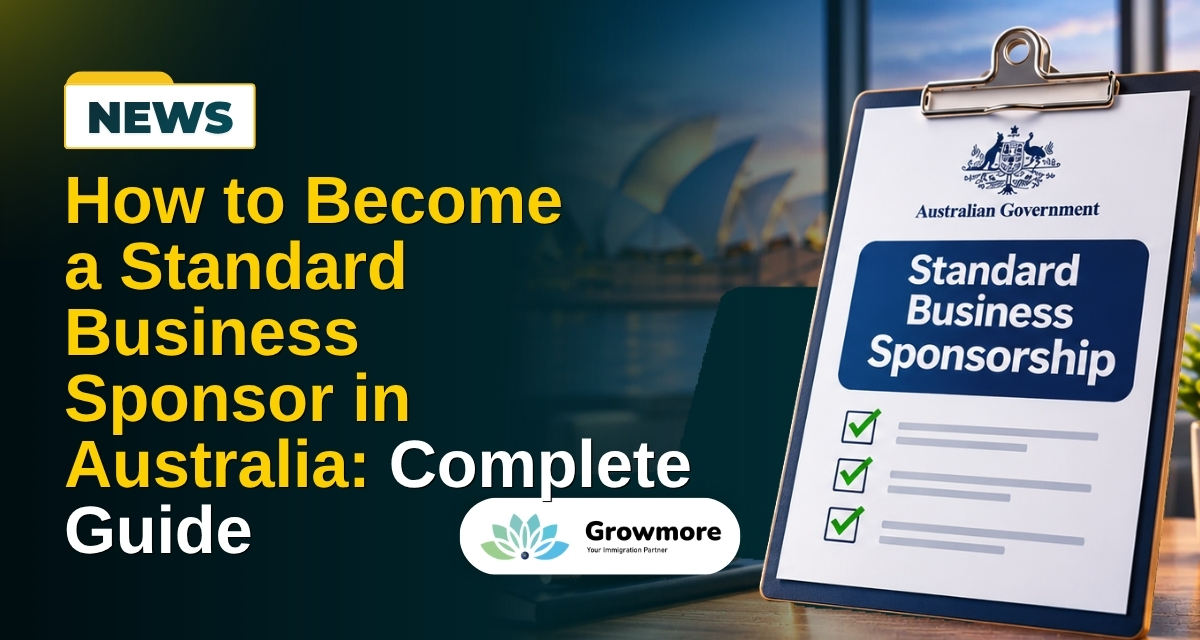
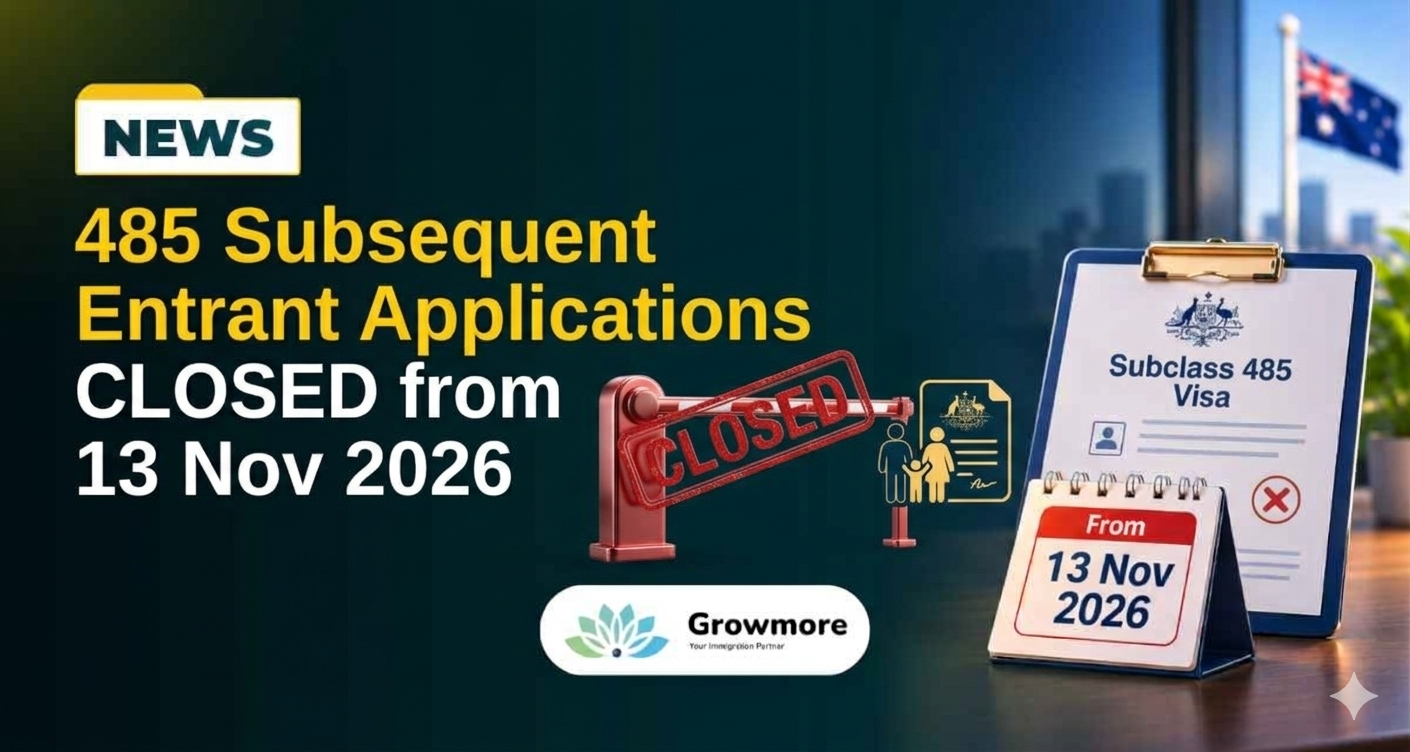
code updated

diff --git a/src/data/newsData.js b/src/data/newsData.js
@@ -1,5 +1,15 @@
 export const news = [
-  
+  {
+    id: 165,
+    slug: "485-subsequent-entrant-applications-closed-from-13-nov",
+    title: "485 Subsequent Entrant Applications CLOSED from 13 Nov",
+    metaTitle: "485 Subsequent Entrant Visa Closed from 13 November 2026",
+    metaDescription: "Australia closes separate 485 subsequent entrant applications from 13 November 2026. Learn about the six exceptions and new family visa rules.",
+    date: "Nov 12, 2026",
+    image: `/assets/ng126.jpg`,
+    category: "Other",
+    subcategory:"Subclass 485",
+  },
   {
     id: 164,
     slug: "bvb-travel-periods-to-be-shorter-for-employer-sponsored-visa-applicants-from-30-nov-2026",

diff --git a/public/content/news/485-subsequent-entrant-applications-closed-from-13-nov.md b/public/content/news/485-subsequent-entrant-applications-closed-from-13-nov.md
@@ -1,0 +1,95 @@
+From 13 November 2026, separate Subclass 485 Subsequent Entrant visa applications will no longer be available under Australia's new Temporary Graduate visa rules. 
+
+This is a significant change for international graduates who already hold a Subclass 485 Temporary Graduate visa and were planning to bring their spouse, de facto partner or dependent children to Australia later. 
+
+The Australian Government has introduced the Migration Amendment (Temporary Graduate Visa Reform) Regulations 2026, which was registered on 12 November 2026. The aim of this amendment is to tighten the eligibility requirements for family members applying for a Subclass 485 visa. 
+
+This means that family members will generally need to apply together with the primary Subclass 485 applicant rather than lodge a separate application after the primary visa has been granted. 
+
+But there is a catch. The new rules do not completely remove the option for family members to obtain a Subclass 485 visa. Only applicants who meet specific exceptions will remain eligible under the revised provisions. 
+
+Here is what existing Subclass 485 visa holders and future applicants need to know. 
+
+## What Has Changed for Subclass 485 Subsequent Entrants? 
+
+Under the revised Migration Regulations 1994, a family member seeking to satisfy the secondary criteria for a Subclass 485 visa must generally lodge their application at the same time as the primary applicant. 
+
+The new requirements include: 
+
+* The primary applicant must be physically in Australia when lodging the Subclass 485 application, but must not be in immigration clearance. 
+* The secondary applicant must meet at least one of the specified eligibility exceptions. 
+* The primary and secondary applications must be lodged together as a combined application. 
+* A secondary applicant can lodge from inside or outside Australia, but cannot apply while in immigration clearance. 
+
+This means that a person who has already received their Subclass 485 visa will generally no longer be able to sponsor a spouse or dependent child through a separate 485 subsequent entrant application. 
+
+## Who Can Still Be Included in a Subclass 485 Application? 
+
+The new regulations retain six specific exceptions under which family members can apply as secondary applicants alongside the primary applicant. 
+
+**1.Primary Applicant Holds an Eligible Passport** 
+
+The primary applicant holds a passport from a Pacific-regional country or a country specified under subitem 1222(5A) of Schedule 1 of the Migration Regulations 1994. 
+
+**2.Primary Applicant Has Completed a Doctoral Degree** 
+
+The primary applicant's most recent Student visa was granted for a doctoral degree, and they have completed that degree. 
+
+**3.Studies Were Fully Funded by a Foreign Government** 
+
+The most recent student visa of the applicant was issued for one or more courses of study funded entirely by the foreign government. 
+
+**4.Child Born After the Primary Applicant's Visa Grant** 
+
+The secondary applicant is a child of the primary applicant and born after the time of receiving the most recent student visa or Subclass 485 visa. 
+
+**5.Previously Held a Student Visa as a Dependant** 
+
+The secondary applicant currently holds, or held within the six months immediately before lodging the application, a Student visa granted on the basis of being a family member of the primary applicant. 
+
+The primary applicant must also hold or have previously held that Student visa as the primary applicant. 
+
+**6.Previously Held a Subclass 485 Visa as a Dependant** 
+
+The secondary applicant currently holds, or held within the six months immediately before lodging the application, a Subclass 485 visa granted on the basis of satisfying the secondary criteria. 
+
+The primary applicant must also hold or have previously held that Subclass 485 visa on the basis of satisfying the primary criteria. 
+
+## Additional Requirements for Secondary Applicants Already in Australia 
+
+The new regulations also introduce specific visa-status requirements for secondary applicants who are in Australia when lodging their application. 
+
+They must hold one of the following: 
+
+* A substantive visa. 
+* A Bridging Visa A (BVA) granted on the basis of a valid visa application. 
+* A Bridging Visa B (BVB) granted on the basis of a valid visa application. 
+* In certain circumstances, a favourable Administrative Review Tribunal (ART) decision setting aside and substituting a decision not to revoke the cancellation of their Student visa, with the relevant notification received within the prescribed 28-day period. 
+
+These requirements are particularly important for family members currently in Australia on bridging visas or dealing with Student visa cancellation matters. 
+
+## What Happens to Existing Subclass 485 Visa Holders? 
+
+This is one of the most important aspects of the new regulations. 
+
+If you already hold a Subclass 485 Temporary Graduate visa and were planning to bring your spouse or dependent children to Australia later through a separate subsequent entrant application, the new rules significantly affect those plans. 
+
+For example, if an international student was granted a Subclass 485 visa earlier and would like to bring their spouse from overseas. 
+
+After 13 November 2026, the spouse will generally no longer be able to lodge a separate Subclass 485 subsequent entrant application, even if they comply with the relevant family member exception categories. 
+
+The exceptions are intended for eligible family members applying together with the primary applicant, not as a new separate application after the primary applicant has already received their visa. 
+
+## Worried About Bringing Your Family to Australia on a 485 Visa? Growmore Immigration Can Guide You 
+
+It is crucial to examine your choices under the new laws if you now have a Subclass 485 Temporary Graduate visa and intend to subsequently bring your spouse, de facto partner, or dependent children to Australia. 
+
+Your eligibility depends on the visa history of your family members, your current immigration status and whether new exceptions in your case apply. 
+
+At Growmore Immigration, we assist Subclass 485 visa holders in exploring options for bringing their family members to Australia, whether through an eligible subsequent entrant pathway or by identifying other suitable visa options based on the circumstances of both the primary visa holder and their family members. 
+
+So, contact us now for a personalised migration assessment and guidance on the available visa pathways. 
+
+Source: [Migration Amendment (Temporary Graduate Visa Reform) Regulations 2026](https://growmoreassociatesptyltd-my.sharepoint.com/personal/krunal_growmore_one/_layouts/15/onedrive.aspx?id=%2Fpersonal%2Fkrunal%5Fgrowmore%5Fone%2FDocuments%2FMicrosoft%20Teams%20Chat%20Files%2FF2026L01500%5F7306%2Epdf&parent=%2Fpersonal%2Fkrunal%5Fgrowmore%5Fone%2FDocuments%2FMicrosoft%20Teams%20Chat%20Files&ga=1)
+
+Disclaimer: This article provides general information about Australian migration law and should not be treated as individual migration advice. Visa eligibility depends on individual circumstances and applicable legislation. Seek advice from a Registered Migration Agent in Australia or an Australian immigration lawyer before making a visa application. 
